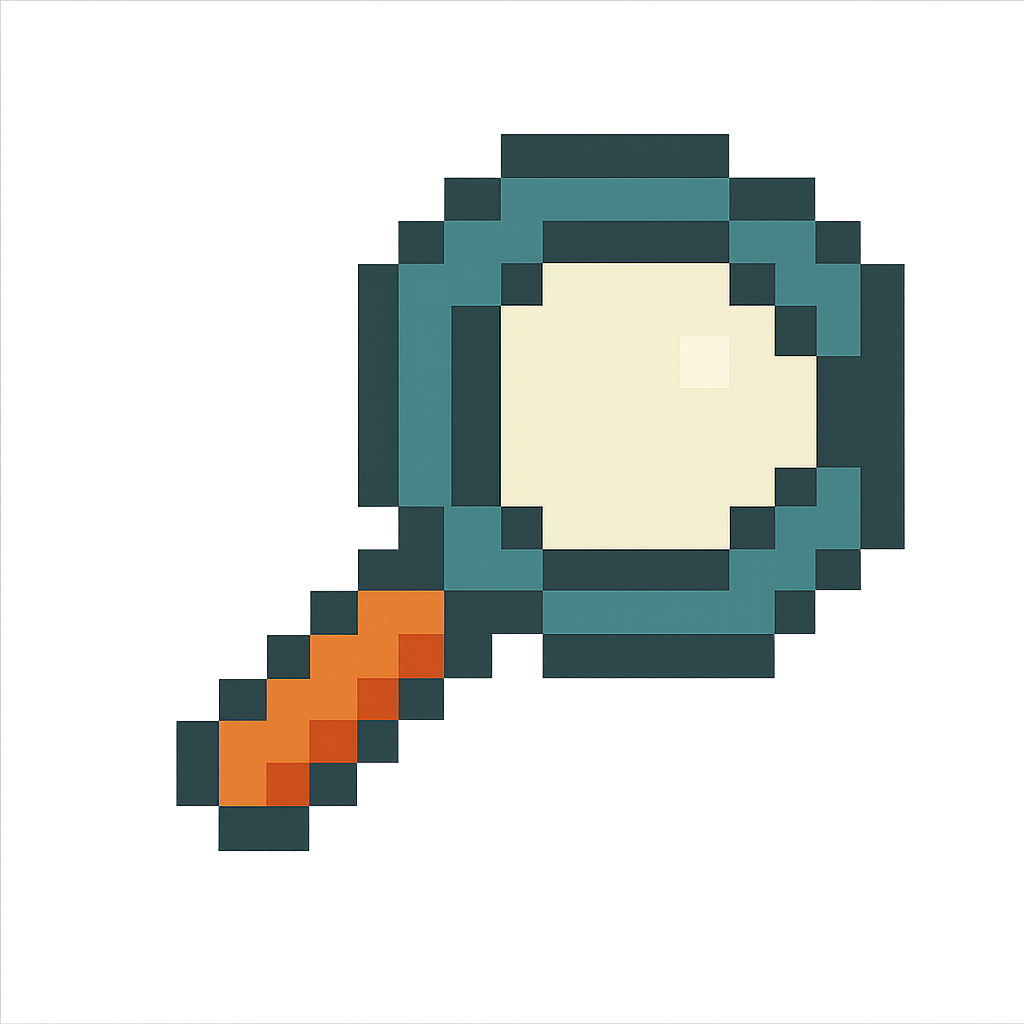
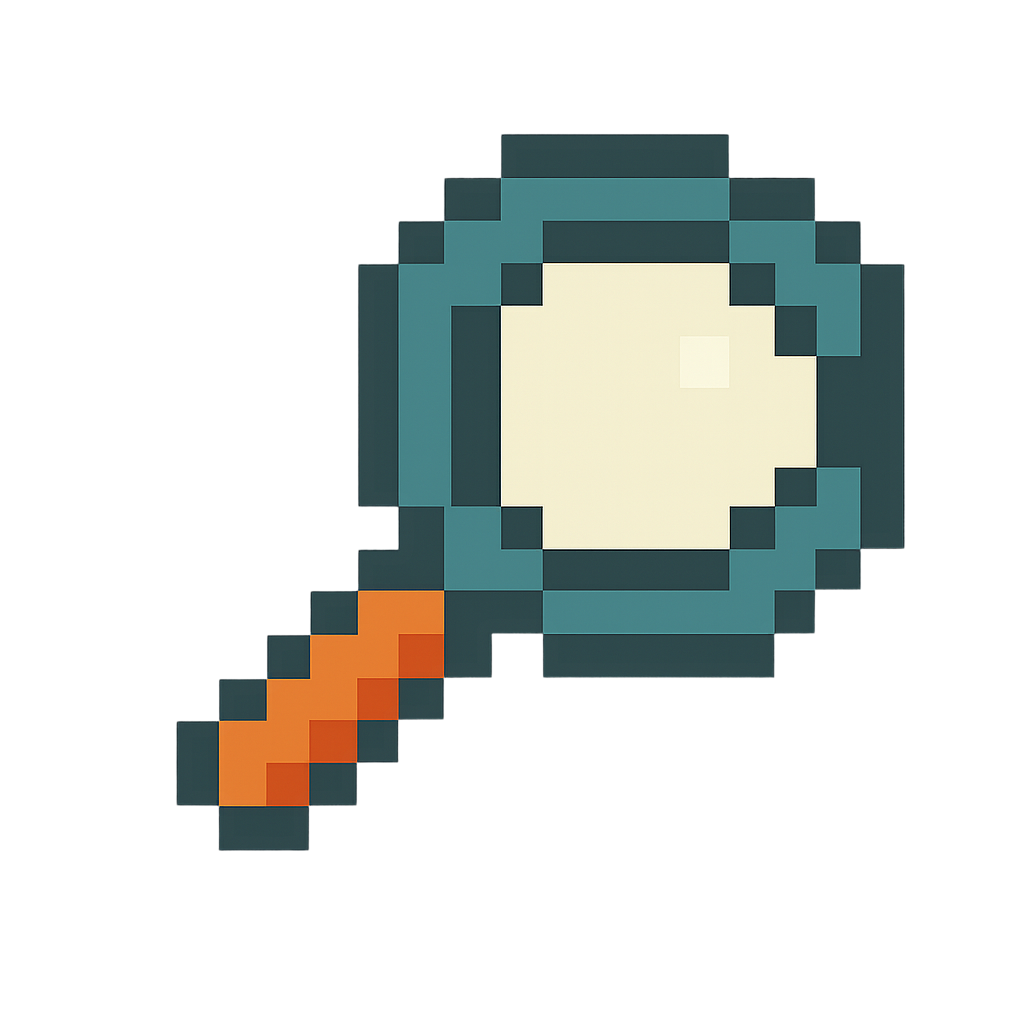
new: landing page

diff --git a/components/home/HomeCarouselSection.tsx b/components/home/HomeCarouselSection.tsx
@@ -1,0 +1,169 @@
+"use client";
+
+import Image from "next/image";
+import { useCallback, useId, useState } from "react";
+
+const SLIDES = [
+  {
+    before: "Choose from a wide range of ",
+    highlight: "Catergories",
+    after: "",
+    src: "/assets/carousal-1.png",
+    alt: "Disinformer app screen: choose a category",
+  },
+  {
+    before: "Work ",
+    highlight: "Together",
+    after: " to solve the clue",
+    src: "/assets/carousal-2.png",
+    alt: "Disinformer app screen: collaborate on the clue",
+  },
+  {
+    before: "Persuade others from the answer as ",
+    highlight: "Disinformer",
+    after: "",
+    src: "/assets/carousal-3.png",
+    alt: "Disinformer app screen: disinformer role",
+  },
+] as const;
+
+const SLIDE_COUNT = SLIDES.length;
+
+/** Matches carousel image column width so dots line up with the slides. */
+const carouselViewportClass = "w-[min(88vw,300px)]";
+
+const SLIDE_IMG = { width: 300, height: 636 } as const;
+
+export default function HomeCarouselSection() {
+  const labelId = useId();
+  const [index, setIndex] = useState(0);
+  const slide = SLIDES[index];
+  const last = SLIDE_COUNT - 1;
+
+  const goPrev = useCallback(() => {
+    setIndex((i) => (i === 0 ? last : i - 1));
+  }, [last]);
+
+  const goNext = useCallback(() => {
+    setIndex((i) => (i === last ? 0 : i + 1));
+  }, [last]);
+
+  return (
+    <section
+      className="bg-[#FDFDF0] py-6 outline-none focus-visible:ring-2 focus-visible:ring-[#2d4143]/25 focus-visible:ring-offset-2 focus-visible:ring-offset-[#FDFDF0] sm:py-10"
+      aria-labelledby={labelId}
+      aria-roledescription="carousel"
+      tabIndex={0}
+      onKeyDown={(e) => {
+        if (e.key === "ArrowLeft") {
+          e.preventDefault();
+          goPrev();
+        }
+        if (e.key === "ArrowRight") {
+          e.preventDefault();
+          goNext();
+        }
+      }}
+    >
+      <div className="mx-auto max-w-5xl px-3 sm:px-5 lg:px-6">
+        <h2
+          id={labelId}
+          className="mx-auto block max-w-[min(100%,36rem)] text-center font-normal leading-snug tracking-normal text-[#2d4143] [font-family:var(--font-pixel)] [font-synthesis:none] text-[0.62rem] sm:text-[0.68rem] md:text-xs lg:text-sm scale-x-[0.94] sm:scale-x-[0.95]"
+          aria-live="polite"
+        >
+          {slide.before}
+          <span className="text-[#e85d04] underline decoration-[#e85d04] decoration-2 underline-offset-4">
+            {slide.highlight}
+          </span>
+          {slide.after}
+        </h2>
+
+        <div className="mt-4 flex flex-col items-center sm:mt-5">
+          <div className="flex items-center justify-center gap-2 sm:gap-3 md:gap-4">
+            <button
+              type="button"
+              onClick={goPrev}
+              className="flex h-11 w-11 shrink-0 items-center justify-center rounded-md border-2 border-[#2d4143] bg-[#ffffef] shadow-[2px_2px_0_#2d4143] transition hover:bg-[#fff8e6] active:translate-x-px active:translate-y-px active:shadow-none sm:h-12 sm:w-12"
+              aria-label="Previous slide"
+            >
+              <Image
+                src="/assets/arrow-prev.png"
+                alt=""
+                width={28}
+                height={28}
+                className="h-6 w-6 sm:h-7 sm:w-7 [image-rendering:pixelated]"
+              />
+            </button>
+
+            <div
+              className={`relative shrink-0 overflow-hidden ${carouselViewportClass}`}
+            >
+              <div
+                className="flex items-start transition-transform duration-550 ease-[cubic-bezier(0.22,1,0.36,1)] motion-reduce:transition-none"
+                style={{
+                  width: `${SLIDE_COUNT * 100}%`,
+                  transform: `translateX(-${(index * 100) / SLIDE_COUNT}%)`,
+                }}
+              >
+                {SLIDES.map((s, i) => (
+                  <div
+                    key={s.src}
+                    className="flex min-w-0 shrink-0 justify-center"
+                    style={{ width: `${100 / SLIDE_COUNT}%` }}
+                  >
+                    <Image
+                      src={s.src}
+                      alt={s.alt}
+                      width={SLIDE_IMG.width}
+                      height={SLIDE_IMG.height}
+                      sizes="(max-width: 640px) 88vw, 300px"
+                      className="h-auto w-full max-w-full [image-rendering:pixelated]"
+                      priority={i === 0}
+                      draggable={false}
+                    />
+                  </div>
+                ))}
+              </div>
+            </div>
+
+            <button
+              type="button"
+              onClick={goNext}
+              className="flex h-11 w-11 shrink-0 items-center justify-center rounded-md border-2 border-[#2d4143] bg-[#ffffef] shadow-[2px_2px_0_#2d4143] transition hover:bg-[#fff8e6] active:translate-x-px active:translate-y-px active:shadow-none sm:h-12 sm:w-12"
+              aria-label="Next slide"
+            >
+              <Image
+                src="/assets/arrow-next.png"
+                alt=""
+                width={28}
+                height={28}
+                className="h-6 w-6 sm:h-7 sm:w-7 [image-rendering:pixelated]"
+              />
+            </button>
+          </div>
+
+          <div
+            className={`mt-3 flex justify-center gap-2 sm:mt-4 ${carouselViewportClass}`}
+            role="group"
+            aria-label="Slide indicators"
+          >
+            {SLIDES.map((_, i) => (
+              <button
+                key={i}
+                type="button"
+                aria-current={i === index ? true : undefined}
+                aria-label={`Go to slide ${i + 1}`}
+                onClick={() => setIndex(i)}
+                className={`h-2.5 w-2.5 shrink-0 rounded-full border border-[#2d4143]/30 transition sm:h-3 sm:w-3 ${
+                  i === index
+                    ? "bg-[#e85d04]"
+                    : "bg-[#2d4143]/45 hover:bg-[#2d4143]/60"
+                }`}
+              />
+            ))}
+          </div>
+        </div>
+      </div>
+    </section>
+  );
+}

diff --git a/components/home/HomeHeroSection.tsx b/components/home/HomeHeroSection.tsx
@@ -1,0 +1,127 @@
+import Image from "next/image";
+
+const comingSoonShadow = [
+  "2px 0 0 rgba(45, 65, 67, 0.35)",
+  "0 2px 0 rgba(45, 65, 67, 0.35)",
+  "2px 2px 0 rgba(45, 65, 67, 0.28)",
+  "4px 0 0 rgba(45, 65, 67, 0.2)",
+  "0 4px 0 rgba(45, 65, 67, 0.2)",
+  "4px 4px 0 rgba(45, 65, 67, 0.14)",
+  "6px 6px 0 rgba(31, 38, 38, 0.12)",
+].join(", ");
+
+const taglineShadow = "0 1px 2px rgba(45, 65, 67, 0.06), 0 2px 8px rgba(45, 65, 67, 0.05)";
+
+const comingSoonWordmarkClass =
+  "text-center text-[clamp(1.15rem,4.5vw,2.35rem)] font-normal leading-tight tracking-tight [font-family:var(--font-pixel)]";
+
+const disinformerTitleClass =
+  "text-center text-[clamp(1.85rem,7.25vw,3.85rem)] font-normal leading-none [font-family:var(--font-bungee-shade)] text-[#2d4143]";
+
+const pixelImg =
+  "h-auto w-full max-w-[min(100%,5rem)] [image-rendering:pixelated] sm:max-w-[6.25rem] md:max-w-[7.25rem] lg:max-w-[8.5rem]";
+
+export default function HomeHeroSection() {
+  return (
+    <section
+      className="relative bg-[#FDFDF0] pb-8 pt-6 sm:pb-10 sm:pt-10"
+      aria-labelledby="home-hero-title"
+    >
+      <div className="relative mx-auto max-w-5xl px-2 sm:px-4 md:px-6 lg:px-8">
+        <div
+          className="grid min-h-[min(48vh,26rem)] w-full grid-cols-[minmax(0,4.25rem)_1fr_minmax(0,4.25rem)] items-stretch gap-x-1 min-[400px]:grid-cols-[minmax(0,5rem)_1fr_minmax(0,5rem)] min-[400px]:gap-x-2 sm:min-h-[min(48vh,30rem)] sm:grid-cols-[minmax(0,5.75rem)_1fr_minmax(0,5.75rem)] sm:gap-x-3 md:grid-cols-[minmax(0,7rem)_1fr_minmax(0,7rem)] md:gap-x-4 lg:grid-cols-[minmax(0,8.5rem)_1fr_minmax(0,8.5rem)]"
+        >
+          <div
+            className="pointer-events-none z-0 flex min-w-0 flex-col items-center justify-between gap-6 py-3 sm:gap-8 sm:py-5"
+            aria-hidden
+          >
+            <Image
+              src="/assets/rabbit.png"
+              alt=""
+              width={160}
+              height={160}
+              className={`${pixelImg} shrink-0`}
+              sizes="(max-width: 480px) 64px, (max-width: 768px) 88px, 112px"
+              priority
+            />
+            <Image
+              src="/assets/brain.png"
+              alt=""
+              width={160}
+              height={160}
+              className={`${pixelImg} shrink-0`}
+              sizes="(max-width: 480px) 64px, (max-width: 768px) 88px, 112px"
+              priority
+            />
+          </div>
+
+          <div className="relative z-10 mx-auto flex w-full min-w-0 max-w-2xl flex-col items-center px-1 pt-1 sm:px-3 sm:pt-2">
+            <Image
+              src="/assets/search-icon.png"
+              alt=""
+              width={360}
+              height={360}
+              className="h-auto w-[min(78vw,16.5rem)] [image-rendering:pixelated] sm:w-[min(72vw,19rem)] md:w-88"
+              sizes="(max-width: 640px) 264px, 352px"
+              priority
+            />
+
+            <h1
+              id="home-hero-title"
+              className={`${disinformerTitleClass} mt-4 sm:mt-6`}
+              style={{
+                letterSpacing: "1%",
+                textShadow: "0 1px 2px rgba(45, 65, 67, 0.06), 0 2px 8px rgba(45, 65, 67, 0.05)",
+              }}
+            >
+              DISINFORMER
+            </h1>
+
+            <p
+              className="mt-4 max-w-xl text-center font-['Play'] font-semibold leading-snug tracking-tight text-[#e85d04] sm:mt-5 sm:text-[1.28rem] md:text-[1.58rem]"
+              style={{ textShadow: taglineShadow }}
+            >
+              Compete in the age of misinformation
+            </p>
+
+            <p
+              className={`${comingSoonWordmarkClass} mt-10 sm:mt-12 text-[#2d4143]`}
+              style={{ textShadow: comingSoonShadow }}
+            >
+              COMING SOON
+            </p>
+          </div>
+
+          <div
+            className="pointer-events-none z-0 flex min-w-0 flex-col items-center justify-between gap-6 py-3 sm:gap-8 sm:py-5"
+            aria-hidden
+          >
+            <Image
+              src="/assets/question.png"
+              alt=""
+              width={160}
+              height={160}
+              className={`${pixelImg} shrink-0`}
+              sizes="(max-width: 480px) 64px, (max-width: 768px) 88px, 112px"
+              priority
+            />
+            <Image
+              src="/assets/video-game.png"
+              alt=""
+              width={160}
+              height={160}
+              className={`${pixelImg} shrink-0`}
+              sizes="(max-width: 480px) 64px, (max-width: 768px) 88px, 112px"
+              priority
+            />
+          </div>
+        </div>
+      </div>
+
+      <div
+        className="mx-auto mt-8 h-0.5 w-[90%] max-w-full bg-[#2d4143] shadow-[0_2px_6px_rgba(45,65,67,0.35),0_1px_3px_rgba(0,0,0,0.12)] sm:mt-10"
+        aria-hidden
+      />
+    </section>
+  );
+}

diff --git a/app/layout.tsx b/app/layout.tsx
@@ -1,5 +1,5 @@
 import type { Metadata } from "next";
-import { Geist, Geist_Mono } from "next/font/google";
+import { Bungee_Shade, Geist, Geist_Mono, Press_Start_2P } from "next/font/google";
 import Navbar from "@/components/navbar";
 import Footer from "@/components/Footer";
 import "./globals.css";
@@ -12,6 +12,18 @@ const geistSans = Geist({
 const geistMono = Geist_Mono({
   variable: "--font-geist-mono",
   subsets: ["latin"],
+});
+
+const pressStart2P = Press_Start_2P({
+  weight: "400",
+  subsets: ["latin"],
+  variable: "--font-pixel",
+});
+
+const bungeeShade = Bungee_Shade({
+  weight: "400",
+  subsets: ["latin"],
+  variable: "--font-bungee-shade",
 });
 
 export const metadata: Metadata = {
@@ -27,7 +39,7 @@ export default function RootLayout({
   return (
     <html lang="en">
       <body
-        className={`${geistSans.variable} ${geistMono.variable} antialiased`}
+        className={`${geistSans.variable} ${geistMono.variable} ${pressStart2P.variable} ${bungeeShade.variable} antialiased`}
       >
         <Navbar />
         {children}

diff --git a/app/page.tsx b/app/page.tsx
@@ -1,10 +1,5 @@
-import { redirect } from "next/navigation";
+import HomePage from "@/components/home/HomePage";
 
 export default function Home() {
-
-  return (
-    <div className="flex min-h-screen items-center justify-center bg-[#ffffef] font-sans dark:bg-black">
-      <h1 className="text-4xl font-bold">Home</h1>
-    </div>
-  );
+  return <HomePage />;
 }

diff --git a/components/home/HomePage.tsx b/components/home/HomePage.tsx
@@ -1,0 +1,11 @@
+import HomeCarouselSection from "@/components/home/HomeCarouselSection";
+import HomeHeroSection from "@/components/home/HomeHeroSection";
+
+export default function HomePage() {
+  return (
+    <main className="min-h-[calc(100vh-12rem)] bg-[#ffffef] text-[#2d4143]">
+      <HomeHeroSection />
+      <HomeCarouselSection />
+    </main>
+  );
+}

diff --git a/app/globals.css b/app/globals.css
@@ -1,4 +1,4 @@
-@import url('https://fonts.googleapis.com/css2?family=Play:wght@400;700&family=Luckiest+Guy&family=Bungee+Shade&display=swap');
+@import url('https://fonts.googleapis.com/css2?family=Play:wght@400;700&family=Luckiest+Guy&display=swap');
 @import "tailwindcss";
 
 :root {
